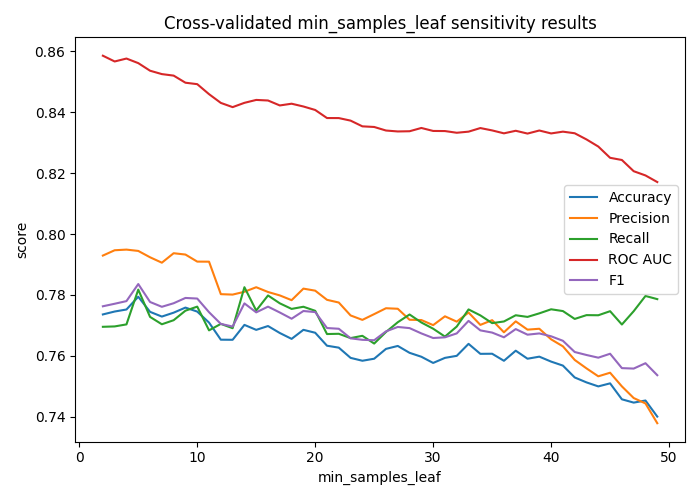
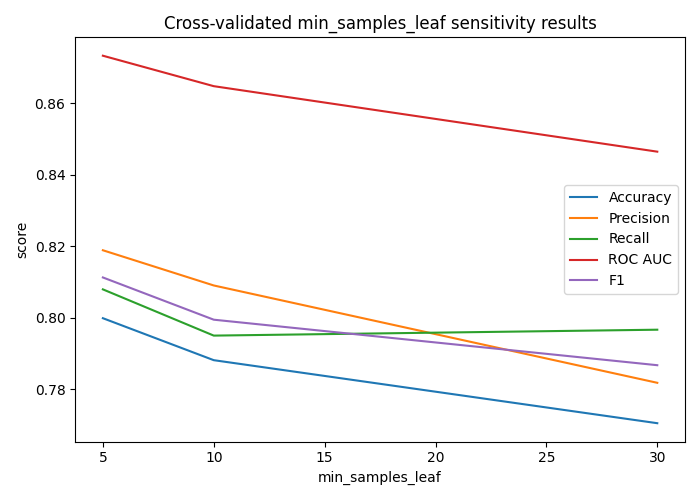
model comparison

diff --git a/fal_classification.py b/fal_classification.py
@@ -133,19 +133,17 @@ def perform_rf_classification(X_train, X_test, X_val, y_train, y_test, y_val, pa
     train_results = pd.DataFrame()
     # test_results = pd.DataFrame()
     val_results = pd.DataFrame()
-    for i in range(n_runs):
+    #for i in range(n_runs):
 
-        clf.fit(X_train, y_train)
-        pred = clf.predict_proba(X_train)
-        predictions_crc.append(pred[:,-1]) #append only probabilities of cancer
-        predictions_h.append(pred[:, 0:1]) #append only probabilities of health
-        #then compute the mean of the row to get the mean probability of cancer/health
-
-    #predictions = predictions[1] #get the average prediction (take always the first column
-    #from each run, and then per sample, take average of those 10 values
-    # #then this can be used as y_pred)
-    #or take both columns and use as y_train_prob and then transform to y_train_pred
-
+    clf.fit(X_train, y_train)
+    pred = clf.predict_proba(X_train)
+    #prob_crc = pred[:,-1]
+    #df_crc = pd.DataFrame(prob_crc)
+    #predictions_crc = predictions_crc.append(df_crc, ignore_index=False)
+    #predictions_crc = pd.concat([predictions_crc, df_crc], axis=1)
+    #prob_h = pred[:,0:1]
+    #df_h = pd.DataFrame(prob_h)
+    #predictions_h = pd.concat([predictions_h, df_h], axis=1)#predictions_h = predictions_h.append(df_h, ignore_index=False)
 
 
     y_train_prob = clf.predict_proba(X_train)
@@ -217,10 +215,107 @@ def perform_rf_classification(X_train, X_test, X_val, y_train, y_test, y_val, pa
 
     return results_df
 
+def perform_classification():
+
+    results_df = pd.DataFrame()
+
+    clf = RandomForestClassifier(**params)
+    #clf.fit(X_train, y_train)
+    #y_train_pred = clf.predict(X_train)
+    #y_test_pred = clf.predict(X_test)
+    #y_val_pred = clf.predict(X_val)
+    threshold = 0.515
+    predictions_crc = pd.DataFrame()
+    predictions_h = pd.DataFrame()
+    n_runs = 10
+    train_results = pd.DataFrame()
+    # test_results = pd.DataFrame()
+    val_results = pd.DataFrame()
+    #for i in range(n_runs):
+
+    clf.fit(X_train, y_train)
+    pred = clf.predict_proba(X_train)
+    #prob_crc = pred[:,-1]
+    #df_crc = pd.DataFrame(prob_crc)
+    #predictions_crc = predictions_crc.append(df_crc, ignore_index=False)
+    #predictions_crc = pd.concat([predictions_crc, df_crc], axis=1)
+    #prob_h = pred[:,0:1]
+    #df_h = pd.DataFrame(prob_h)
+    #predictions_h = pd.concat([predictions_h, df_h], axis=1)#predictions_h = predictions_h.append(df_h, ignore_index=False)
+
+
+    y_train_prob = clf.predict_proba(X_train)
+    y_train_pred = (y_train_prob[:, 1] >= threshold).astype('int')
 
 
 
-def get_rf_results(data_name, filepath, group, select_features, clf, fal):
+    #y_test_prob = clf.predict_proba(X_test)
+    #y_test_pred = (y_test_prob[:, 1] >= threshold).astype('int')
+
+    y_val_prob = clf.predict_proba(X_val)
+    y_val_pred = (y_val_prob[:, 1] >= threshold).astype('int')
+
+
+    acc_train = accuracy_score(y_train, y_train_pred)
+    prec_train = precision_score(y_train, y_train_pred)
+    recall_train = recall_score(y_train, y_train_pred)
+    roc_auc_train = roc_auc_score(y_train, y_train_pred)
+    f1_train = f1_score(y_train, y_train_pred)
+    f2_train = fbeta_score(y_train, y_train_pred, beta=2)
+    interval_len = 1.96 * sqrt((roc_auc_train * (1 - roc_auc_train)) / len(y_train))
+    interval_low = roc_auc_train - interval_len
+    interval_high = roc_auc_train + interval_len
+    ci_train = [interval_low, interval_high]
+    train_set_res = {'accuracy': acc_train, 'precision': prec_train, 'recall': recall_train, 'roc_auc': roc_auc_train, 'f1': f1_train,
+                          'f2': f2_train, 'auc_conf_int': ci_train}
+    train_results = train_results.append(train_set_res, ignore_index=True)
+
+
+    #acc_test = accuracy_score(y_test, y_test_pred)
+    #prec_test = precision_score(y_test, y_test_pred)
+    #recall_test = recall_score(y_test, y_test_pred)
+    #roc_auc_test = roc_auc_score(y_test, y_test_pred)
+    #f1_test = f1_score(y_test, y_test_pred)
+    #f2_test = fbeta_score(y_test, y_test_pred, beta=2)
+    #interval_len = 1.96 * sqrt((roc_auc_test * (1 - roc_auc_test)) / len(y_test))
+    #interval_low = roc_auc_test - interval_len
+    #interval_high = roc_auc_test + interval_len
+    #ci_test = [interval_low, interval_high]
+    #test_set_res = {'accuracy': acc_test, 'precision': prec_test, 'recall': recall_test,
+     #                     'roc_auc': roc_auc_test, 'f1': f1_test,
+     #                     'f2': f2_test, 'auc_conf_int': ci_test}
+    #test_results = test_results.append(test_set_res, ignore_index=True)
+
+
+    acc_val = accuracy_score(y_val, y_val_pred)
+    prec_val = precision_score(y_val, y_val_pred)
+    recall_val = recall_score(y_val, y_val_pred)
+    roc_auc_val = roc_auc_score(y_val, y_val_pred)
+    f1_val = f1_score(y_val, y_val_pred)
+    f2_val = fbeta_score(y_val, y_val_pred, beta=2)
+    interval_len = 1.96 * sqrt((roc_auc_val * (1 - roc_auc_val)) / len(y_val))
+    interval_low = roc_auc_val - interval_len
+    interval_high = roc_auc_val + interval_len
+    ci_val = [interval_low, interval_high]
+    val_set_res = {'accuracy': acc_val, 'precision': prec_val, 'recall': recall_val,
+                          'roc_auc': roc_auc_val, 'f1': f1_val,
+                          'f2': f2_val, 'auc_conf_int': ci_val}
+    val_results = val_results.append(val_set_res, ignore_index=True)
+
+    train_results = train_results.mean()
+    #test_results = test_results.mean()
+    val_results = val_results.mean()
+
+    results_df = results_df.append(train_results, ignore_index=True)
+    #results_df = results_df.append(test_results, ignore_index=True)
+    results_df = results_df.append(val_results, ignore_index=True)
+
+    return results_df
+
+
+
+
+def get_results(data_name, filepath, group, select_features, clf, fal):
     X_train, X_test, X_val, y_train, y_test, y_val = load_preprocessed_data(FUDAN, fudan_filepath, group='old', select_features=True)
     if select_features == True:
         params = get_best_params(FUDAN, group, 'selected_features', clf, param_file='best_params')
@@ -228,21 +323,42 @@ def get_rf_results(data_name, filepath, group, select_features, clf, fal):
             X_train = apply_feature_abundance_limits(X_train)
             X_test = apply_feature_abundance_limits(X_test)
             X_val = apply_feature_abundance_limits(X_val)
-            results = perform_rf_classification(X_train, X_test, X_val, y_train, y_test, y_val, params, group=group, file_name="selected_features")
+            if clf == "RF":
+                results = perform_rf_classification(X_train, X_test, X_val, y_train, y_test, y_val, params, group=group, file_name="selected_features")
+            else:
+                results = perform_classification(X_train, X_test, X_val, y_train, y_test, y_val, params, group=group, file_name="selected_features")
             print(results)
         if fal == False:
-            results = perform_rf_classification(X_train, X_test, X_val, y_train, y_test, y_val, params, group=group, file_name="selected_features")
-            print(results)
+            if clf == "RF":
+                results = perform_rf_classification(X_train, X_test, X_val, y_train, y_test, y_val, params, group=group, file_name="selected_features")
+            else:
+                results = perform_classification(X_train, X_test, X_val, y_train, y_test, y_val, params, group=group, file_name="selected_features")
+
     if select_features == False:
-        params = get_best_params(FUDAN, group, 'all_features', param_file='best_params')
+        params = get_best_params(FUDAN, group, 'all_features', clf,  param_file='best_params')
         if fal == True:
             X_train = apply_feature_abundance_limits(X_train)
             X_test = apply_feature_abundance_limits(X_test)
             X_val = apply_feature_abundance_limits(X_val)
-            results = perform_rf_classification(X_train, X_test, X_val, y_train, y_test, y_val, params, group=group, file_name="all_features")
+            if clf == "RF":
+                results = perform_rf_classification(X_train, X_test, X_val, y_train, y_test, y_val, params,
+                                                    group=group, file_name="selected_features")
+            else:
+                results = perform_classification(X_train, X_test, X_val, y_train, y_test, y_val, params,
+                                                 group=group, file_name="selected_features")
             print(results)
         if fal == False:
-            results = perform_rf_classification(X_train, X_test, X_val, y_train, y_test, y_val, params, group=group, file_name="all_features")
+            if clf == "RF":
+                results = perform_rf_classification(X_train, X_test, X_val, y_train, y_test, y_val, params,
+                                                    group=group, file_name="selected_features")
+            else:
+                results = perform_classification(X_train, X_test, X_val, y_train, y_test, y_val, params,
+                                                 group=group, file_name="selected_features")
+
             print(results)
+
+
+
+
 
 get_rf_results(FUDAN, fudan_filepath, 'old', select_features=True, clf = "RF", fal=True)

diff --git a/rf_sensitivity.py b/rf_sensitivity.py
@@ -150,14 +150,21 @@ def sensitivity_analysis(data_name, filepath, group, select_features = False):
     # define a range of values for the maximum depth
     if group == "old":
         param_ranges = {
-            'n_estimators': np.arange(1, 800, 50, dtype=int),
-            'max_depth': np.arange(2, 20, 1, dtype=int),
-            'min_samples_split': np.arange(2, 25, 1, dtype=int),
-            'min_samples_leaf': np.arange(2, 50, 1, dtype=int),
+            'n_estimators': [10, 35, 100, 1000, 3000], #np.arange(1, 800, 50, dtype=int),
+            'max_depth': [5, 10, 20],#np.arange(2, 20, 1, dtype=int),
+            'min_samples_split': [5, 10, 20], #np.arange(2, 25, 1, dtype=int),
+            'min_samples_leaf': [5, 10, 30], #np.arange(2, 50, 1, dtype=int),
             'max_features': ['sqrt', 'log2'],  # 'sqrt', 'log2']
             #'bootstrap': [True, False],
             'random_state': [1234]
         }
+        """'n_estimators': np.arange(1, 800, 50, dtype=int),
+        'max_depth': np.arange(2, 20, 1, dtype=int),
+        'min_samples_split': np.arange(2, 25, 1, dtype=int),
+        'min_samples_leaf': np.arange(2, 50, 1, dtype=int),
+        'max_features': ['sqrt', 'log2'],  # 'sqrt', 'log2']
+        # 'bootstrap': [True, False],
+        'random_state': [1234]"""
     if group == "young":
         param_ranges = {
             'n_estimators': np.arange(50, 250, 10, dtype=int),
@@ -307,13 +314,13 @@ if __name__ == '__main__':
     parser = argparse.ArgumentParser()
     parser.add_argument('--data_name', type=str, default=FUDAN)
     parser.add_argument('--filepath', type=str, default=fudan_filepath)
-    parser.add_argument('--group', type=str, default="all")
-    parser.add_argument('--select_features', type=str, default=False)
+    parser.add_argument('--group', type=str, default="old")
+    parser.add_argument('--select_features', type=str, default=True)
 
     args = parser.parse_args()
     data_name = args.data_name
     if data_name == FUDAN:
-        sensitivity_analysis(data_name=args.data_name, filepath=args.filepath, group="all", select_features=False)
+        sensitivity_analysis(data_name=args.data_name, filepath=args.filepath, group="old", select_features=True)
     elif data_name == HUADONG1:
         sensitivity_analysis(data_name=args.data_name, filepath=args.filepath)
     else:

diff --git a/xbg_hyperparams_y_o.py b/xbg_hyperparams_y_o.py
@@ -67,7 +67,7 @@ def grid_search_rf(X_train, X_test, y_train, y_test, X_val, y_val, data_name, fi
         }
     if group == "young":
         param_grid = {
-            'n_estimators': np.arange(5, 27, 2, dtype=int),
+            'n_estimators': [1000], #np.arange(5, 27, 2, dtype=int),
             'max_depth': np.arange(2, 22, 4, dtype=int),
             'min_child_weight': np.arange(1, 15, 3, dtype=int),
             'gamma': np.arange(0.2, 2.0, 0.2),
@@ -86,8 +86,8 @@ def grid_search_rf(X_train, X_test, y_train, y_test, X_val, y_val, data_name, fi
         param_grid = {
             'n_estimators': np.arange(5, 38, 3, dtype=int),
             'max_depth': np.arange(2, 22, 4, dtype=int),
-            'min_child_weight': np.arange(1, 15, 3, dtype=int),
-            'gamma': np.arange(0, 1.5, 0.1),
+            'min_child_weight': np.arange(2, 12, 3, dtype=int),
+            'gamma': np.arange(0, 0.5, 0.1),
             'random_state': [1234]
         }
 
@@ -386,9 +386,9 @@ def run_rf_tuning(data_name, filepath, group, select_features = True):
     #save_result_table(results_test_table, data_name, file_name, group, table_name="best_results_test")
     #save_result_table(results_val_table, data_name, file_name, group, table_name="best_results_val")
 
-run_rf_tuning(data_name=FUDAN, filepath=fudan_filepath, group='young', select_features=True)
-run_rf_tuning(data_name=FUDAN, filepath=fudan_filepath, group='old', select_features=True)
-run_rf_tuning(data_name=FUDAN, filepath=fudan_filepath, group='all', select_features=True)
+#run_rf_tuning(data_name=FUDAN, filepath=fudan_filepath, group='young', select_features=True)
+#run_rf_tuning(data_name=FUDAN, filepath=fudan_filepath, group='old', select_features=True)
+#run_rf_tuning(data_name=FUDAN, filepath=fudan_filepath, group='all', select_features=True)
 run_rf_tuning(data_name=FUDAN, filepath=fudan_filepath, group='young', select_features=False)
 run_rf_tuning(data_name=FUDAN, filepath=fudan_filepath, group='old', select_features=False)
 run_rf_tuning(data_name=FUDAN, filepath=fudan_filepath, group='all', select_features=False)
